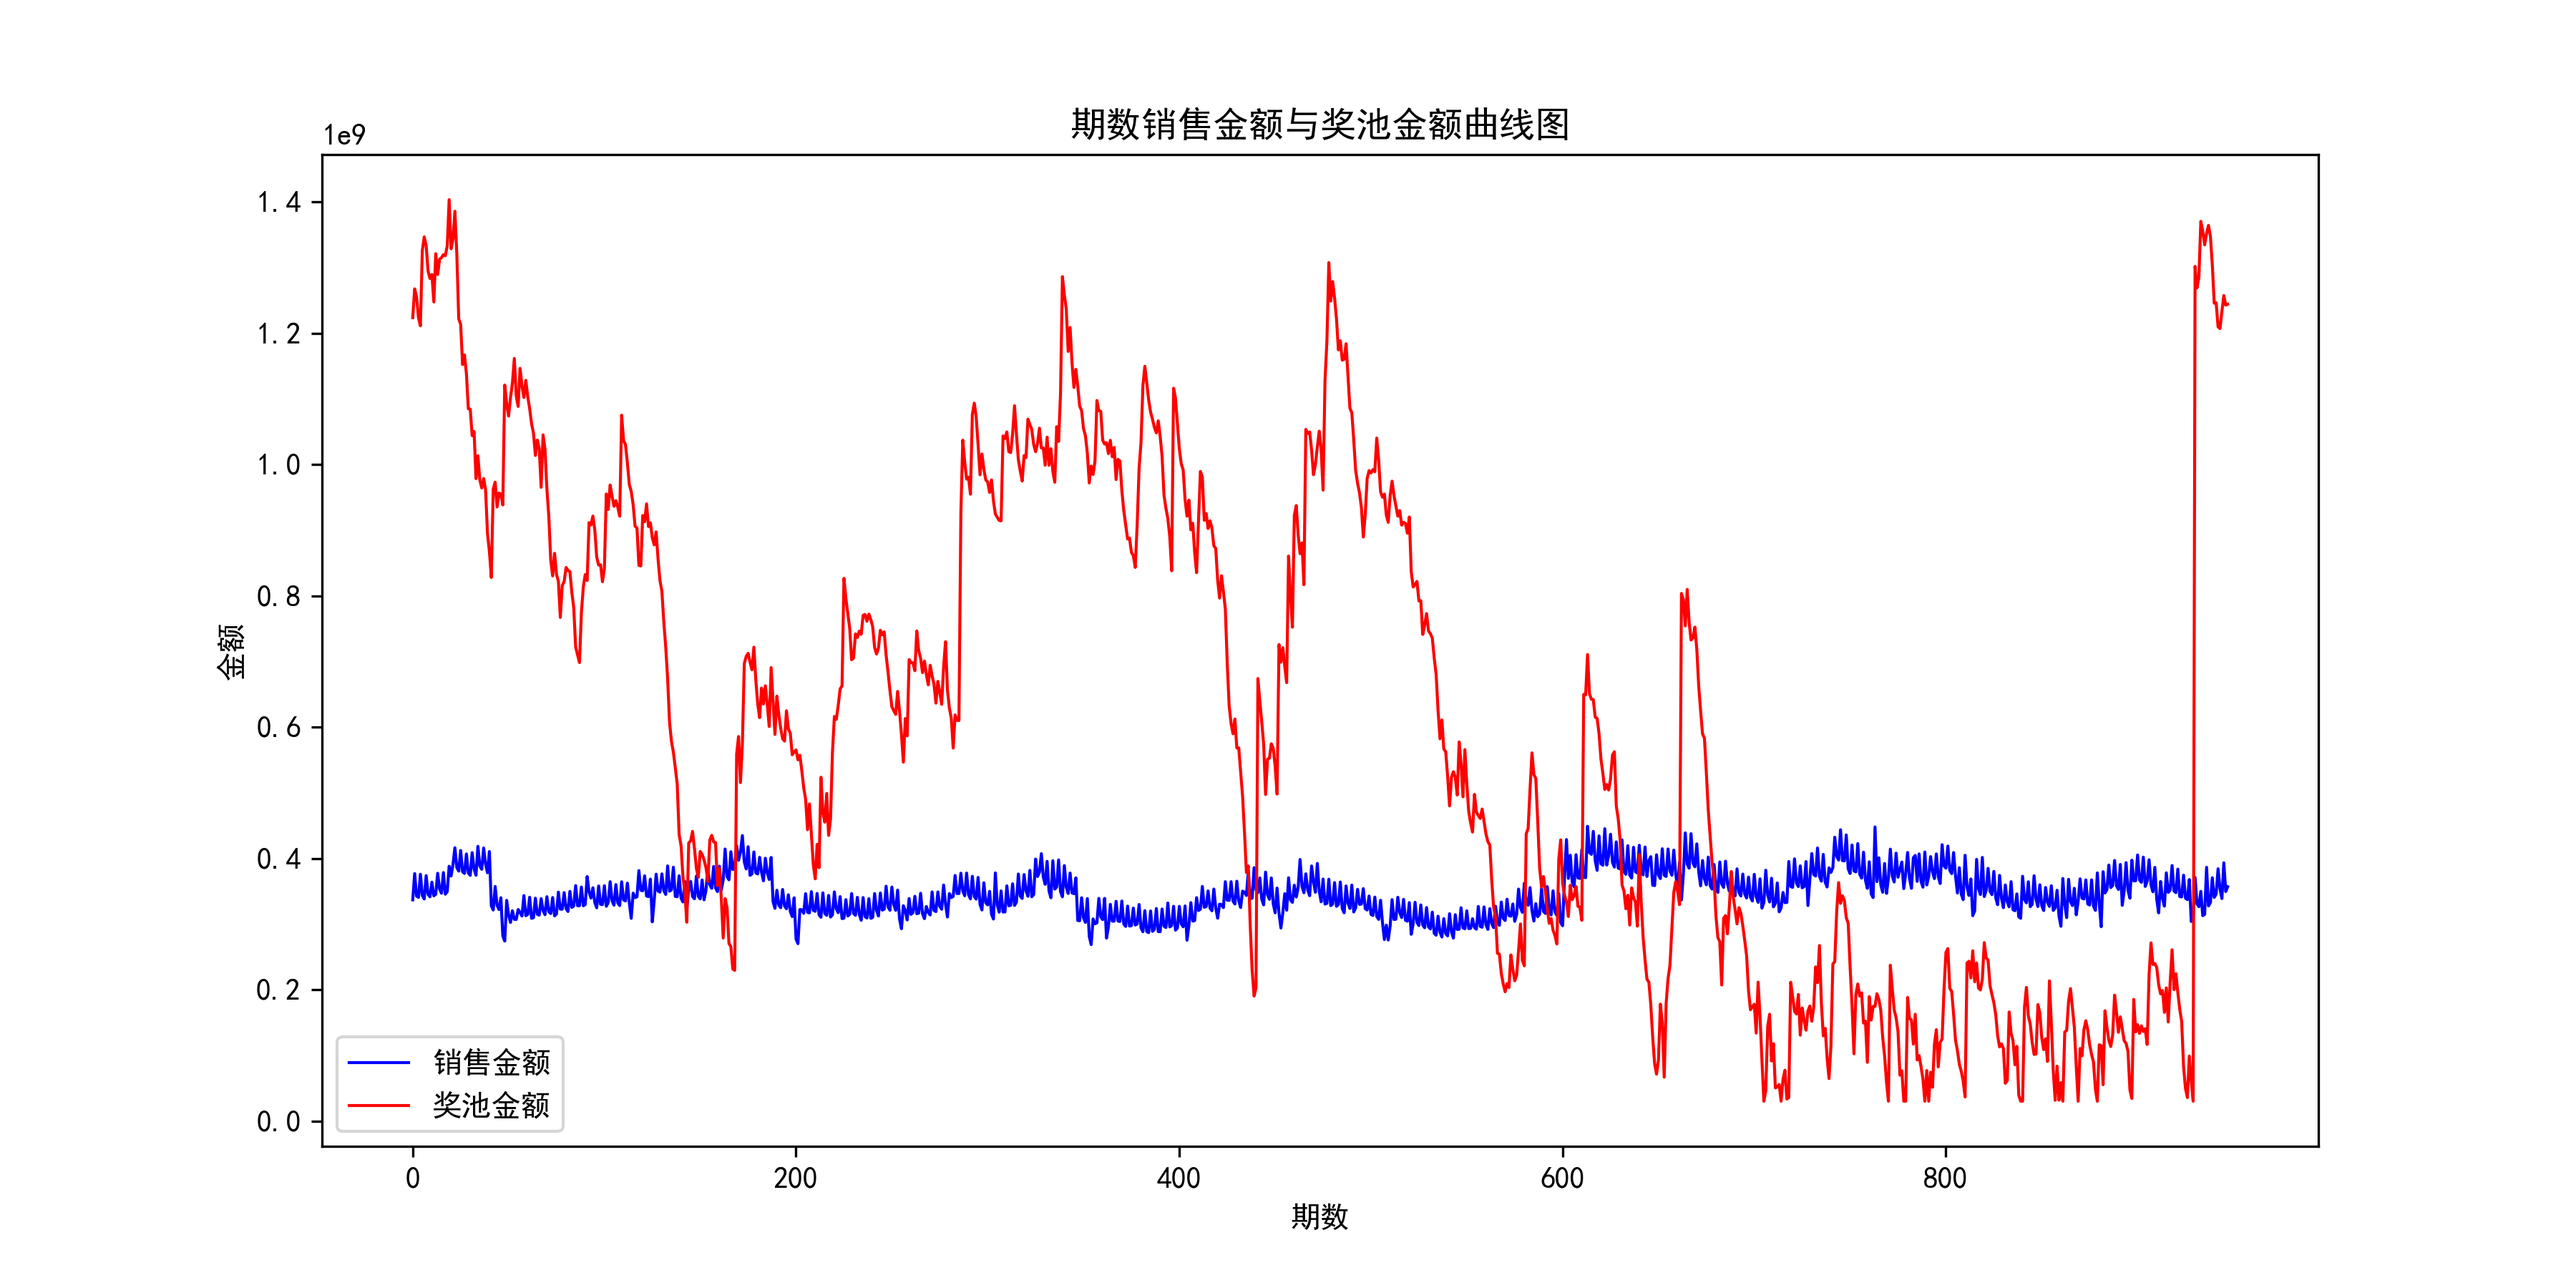
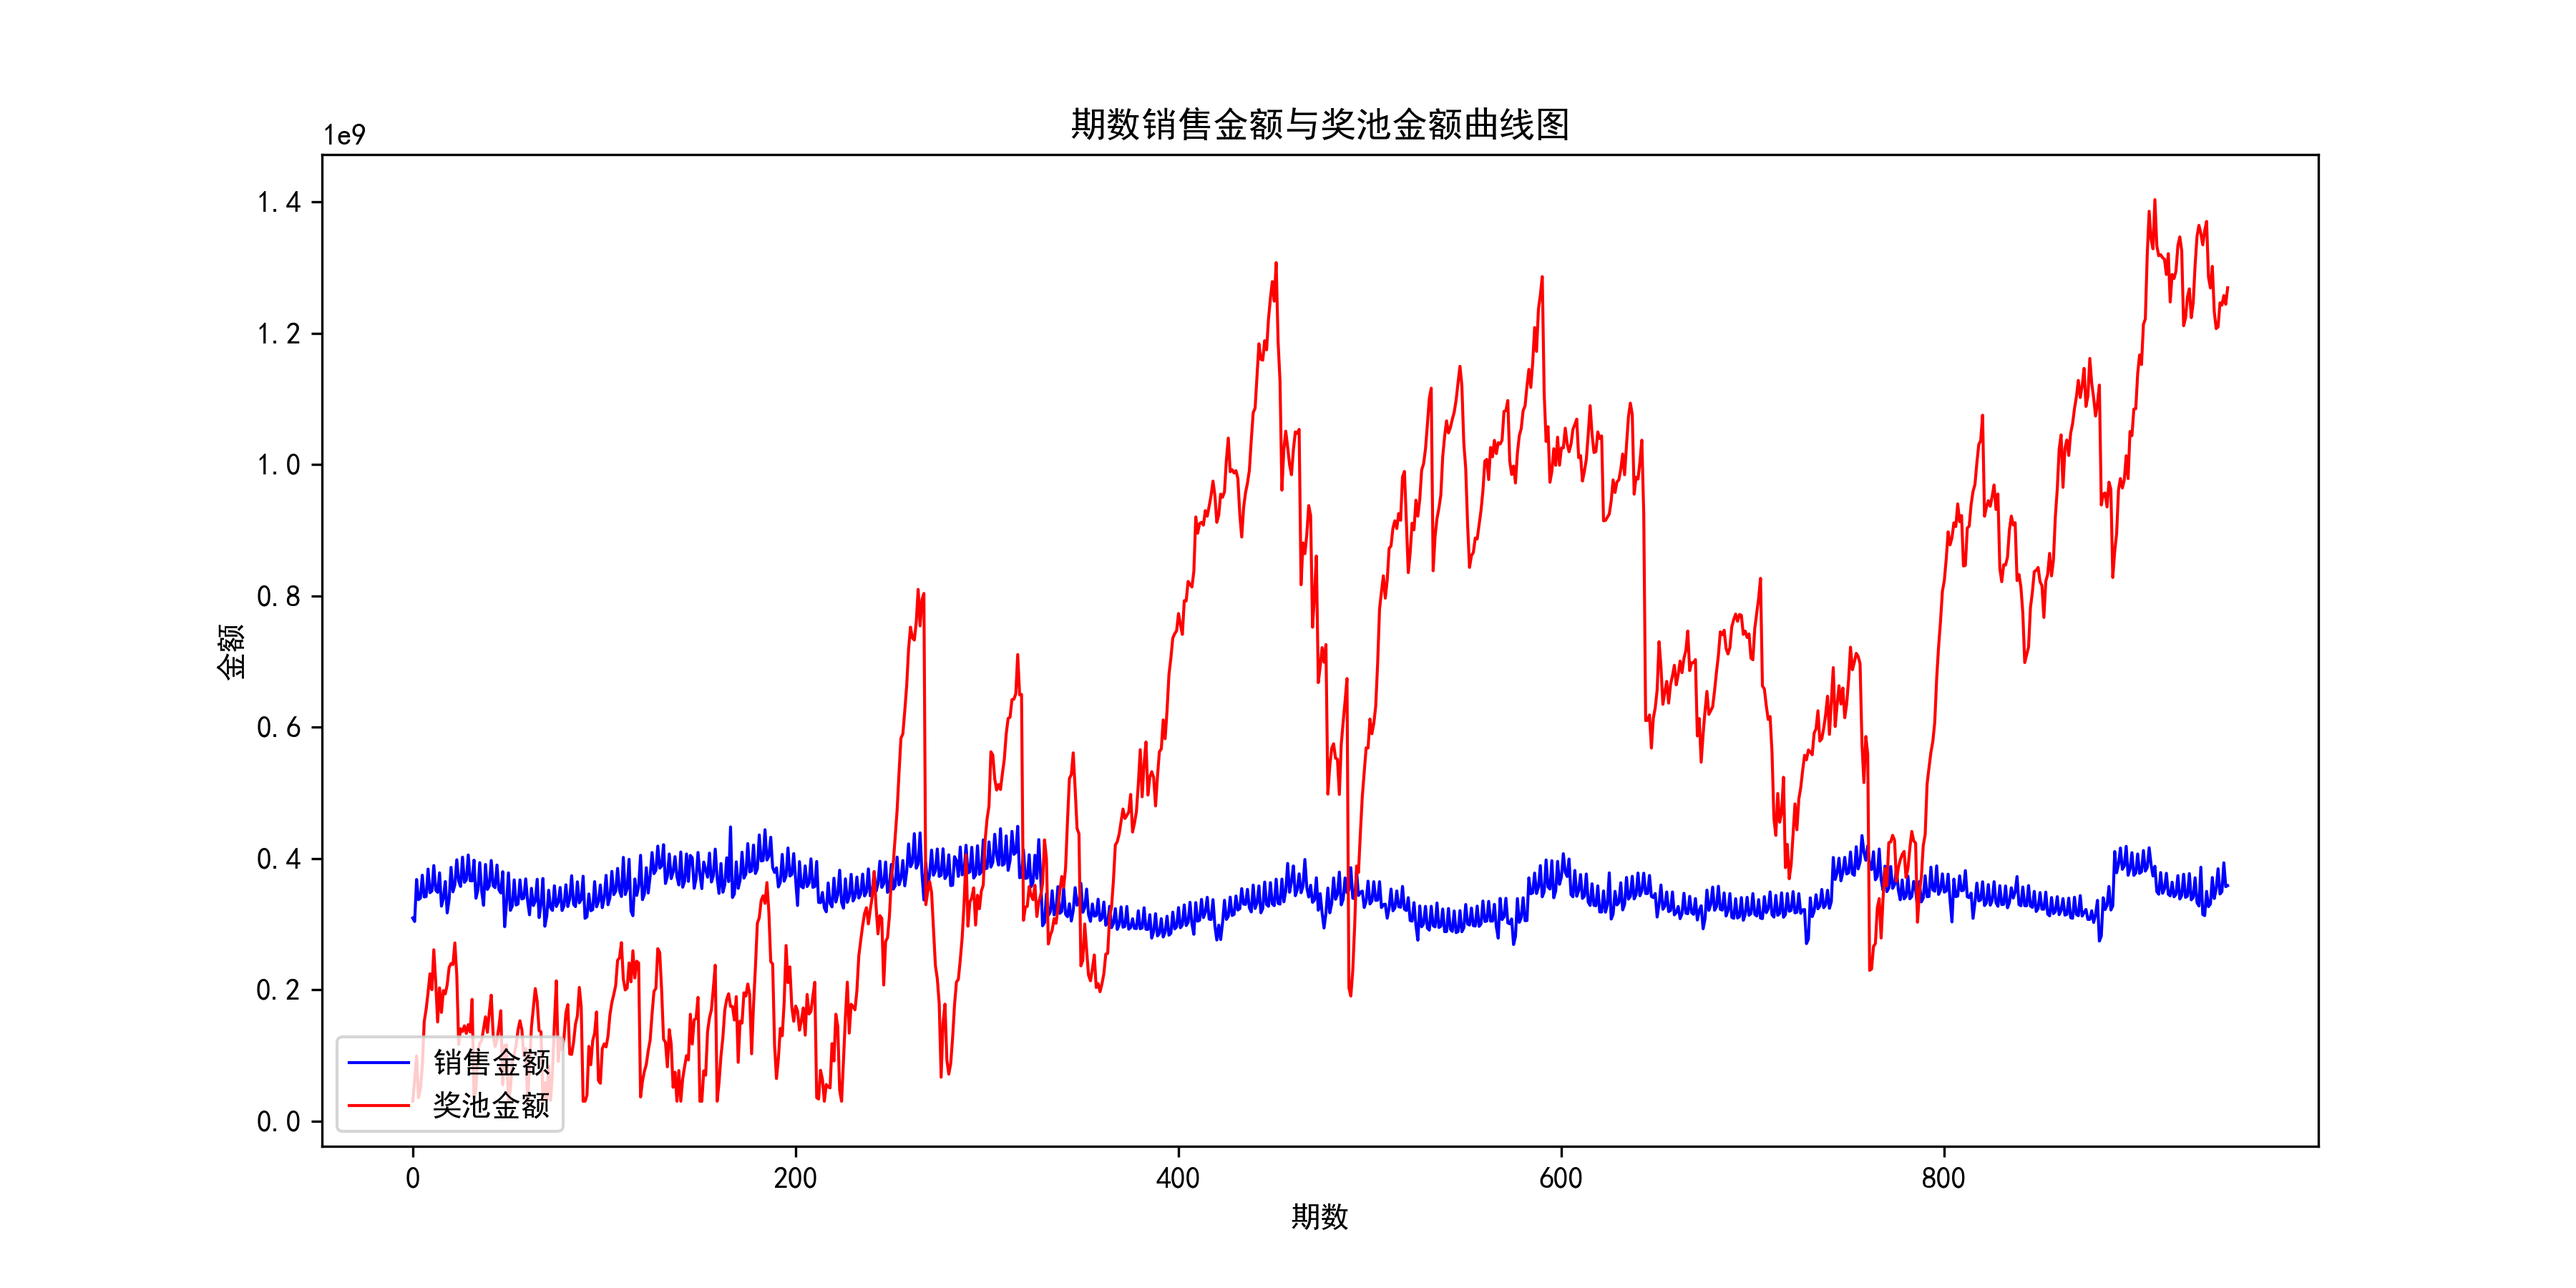
最新数据更新

diff --git a/DataShow/DataVisual.py b/DataShow/DataVisual.py
@@ -211,12 +211,18 @@ def sales_money_visual():
 
     prize_money = []
     for item in bonus:
-        print(item)
-        print(item.strip('[]').split(','))
+        prize_array = []
+        prize_dict = {}
+        i_flag = 0
         for prize in item.strip('[]').split(','):
-            print(prize.strip('{}'))
-            # print(dict(prize.strip(' ')))
-        break
+            prize_summary = prize.strip(' {} ').split(': ')
+            prize_dict[prize_summary[0].strip('\'')] = prize_summary[1].strip('\'')
+            i_flag = i_flag + 1
+            if i_flag % 3 == 0:
+                prize_array.append(prize_dict)
+                prize_dict = {}
+        prize_money.append(prize_array)
+    print(prize_money)
 
     # print(sales_money)
     # print(pool_sales_money)
@@ -254,8 +260,8 @@ def blue_visual():
 
 if __name__ == "__main__":
     sales_money_visual()
-    # blue_statistics_visual()
-    # red_statistics_visual()
-    # ball_sum_visual()
-    # area_statistics_visual()
-    # winners_of_lottery()
+    blue_statistics_visual()
+    red_statistics_visual()
+    ball_sum_visual()
+    area_statistics_visual()
+    winners_of_lottery()

diff --git a/DataShow/DataHandle.py b/DataShow/DataHandle.py
@@ -86,6 +86,26 @@ def area_statistics():
     return area_dict
 
 
+def handle_prize():
+    so = SqliteOperator()
+    bonus = so.get_single_value("prizegrades")
+
+    prize_money = []
+    for item in bonus:
+        prize_array = []
+        prize_dict = {}
+        i_flag = 0
+        for prize in item.strip('[]').split(','):
+            prize_summary = prize.strip(' {} ').split(': ')
+            prize_dict[prize_summary[0].strip('\'')] = prize_summary[1].strip('\'')
+            i_flag = i_flag + 1
+            if i_flag % 3 == 0:
+                prize_array.append(prize_dict)
+                prize_dict = {}
+        prize_money.append(prize_array)
+    return prize_money
+
+
 if __name__ == "__main__":
     # print(red_statistics())
     # ball_sum_count()

diff --git a/GenerateLotteryCode/SqliteOperator.py b/GenerateLotteryCode/SqliteOperator.py
@@ -56,7 +56,7 @@ class SqliteOperator:
 
     def get_single_value(self, item):
         c = self.conn.cursor()
-        select_sql = "SELECT {0} FROM lottery_summary".format(item)
+        select_sql = "SELECT {0} FROM lottery_summary ORDER BY ID ASC".format(item)
         cursor = c.execute(select_sql)
         red_balls = []
         for row in cursor:
